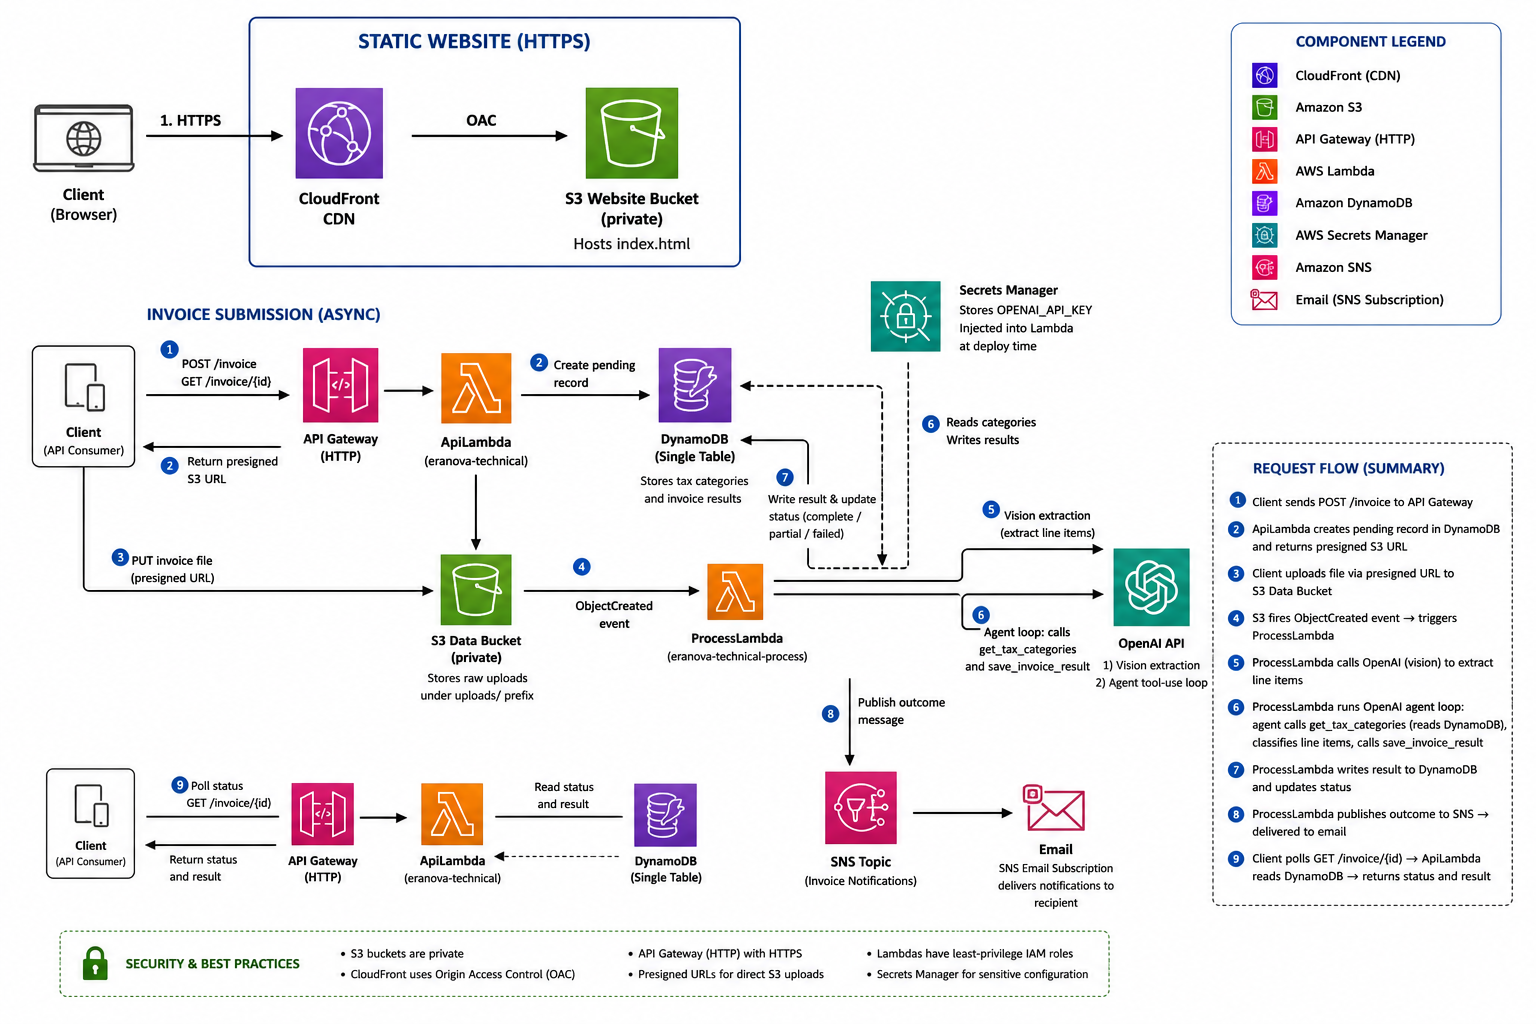
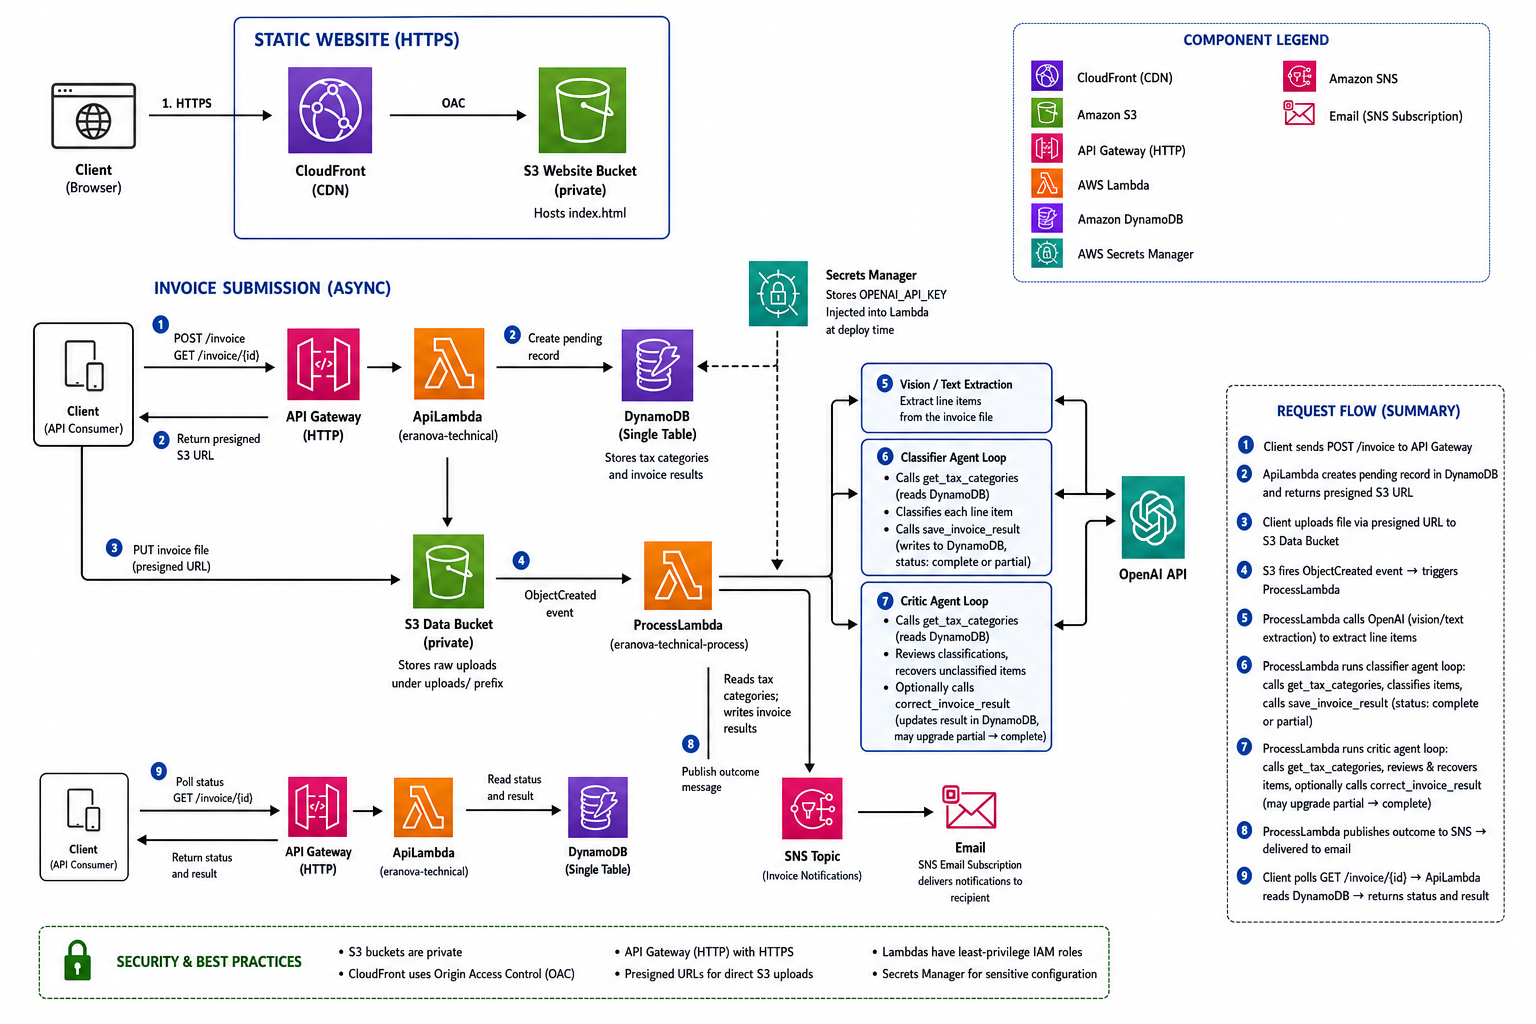
adding logging + updated architecture diagram

diff --git a/src/agent.py b/src/agent.py
@@ -1,6 +1,7 @@
 import base64
 import io
 import json
+import logging
 import os
 from typing import List
 
@@ -17,6 +18,7 @@ from models import (
 )
 from repository import repo, to_float
 
+logger = logging.getLogger(__name__)
 client = OpenAI(api_key=os.environ["OPENAI_API_KEY"])
 
 _EXTRACT_SYSTEM = """
@@ -89,14 +91,29 @@ def _extract(file_bytes: bytes, content_type: str) -> ExtractedInvoice:
             input=[{"role": "user", "content": user_content}],
             text_format=ExtractedInvoice,
         )
-        return response.output_parsed
+        result = response.output_parsed
+        logger.info(
+            "extraction complete vendor=%s items=%d",
+            result.vendor,
+            len(result.line_items),
+        )
+        return result
     finally:
         if file_id:
             client.files.delete(file_id)
 
 
 def run(invoice_id: str, file_bytes: bytes, content_type: str) -> None:
+    logger.info(
+        "invoice_id=%s extraction starting content_type=%s", invoice_id, content_type
+    )
     extracted = _extract(file_bytes, content_type)
+
+    logger.info(
+        "invoice_id=%s classifier starting items=%d",
+        invoice_id,
+        len(extracted.line_items),
+    )
 
     @function_tool
     def save_invoice_result(line_items: List[ClassifiedLineItemInput]) -> SaveResult:
@@ -117,12 +134,17 @@ def run(invoice_id: str, file_bytes: bytes, content_type: str) -> None:
         agent,
         f"Invoice ID: {invoice_id}\n\nExtracted line items:\n{extracted.model_dump_json(indent=2)}",  # noqa: E501
     )
+    logger.info("invoice_id=%s classifier complete", invoice_id)
 
 
 def run_critic(invoice_id: str) -> None:
     result = repo.get_result(invoice_id)
     if not result or not result.get("line_items"):
         return
+
+    logger.info(
+        "invoice_id=%s critic starting items=%d", invoice_id, len(result["line_items"])
+    )
 
     @function_tool
     def correct_invoice_result(corrections: List[CorrectionInput]) -> CorrectionResult:
@@ -141,3 +163,4 @@ def run_critic(invoice_id: str) -> None:
         critic,
         f"Invoice ID: {invoice_id}\n\nClassified line items:\n{line_items_json}",
     )
+    logger.info("invoice_id=%s critic complete", invoice_id)

diff --git a/src/process.py b/src/process.py
@@ -1,9 +1,13 @@
+import logging
 import os
 
 import boto3
 
 import agent
 from repository import repo
+
+logging.basicConfig(level=logging.INFO)
+logger = logging.getLogger(__name__)
 
 SNS_TOPIC_ARN = os.environ.get("SNS_TOPIC_ARN")
 API_BASE_URL = os.environ.get("API_BASE_URL")
@@ -41,11 +45,13 @@ def _notify(
 
     try:
         sns_client.publish(TopicArn=SNS_TOPIC_ARN, Subject=subject, Message=body)
-    except Exception:
-        pass
+        logger.info("invoice_id=%s notification sent status=%s", invoice_id, status)
+    except Exception as exc:
+        logger.warning("invoice_id=%s notification failed: %s", invoice_id, exc)
 
 
 def _fail(invoice_id: str, error: str) -> None:
+    logger.error("invoice_id=%s failed: %s", invoice_id, error)
     repo.set_failed(invoice_id, error)
     _notify(invoice_id, "failed", error=error)
 
@@ -60,12 +66,20 @@ def lambda_handler(event, context):
             raise ValueError(f"unexpected S3 key format: {key!r}")
         invoice_id = parts[1]
 
+        logger.info("invoice_id=%s processing started key=%s", invoice_id, key)
+
         try:
             resp = s3_client.get_object(Bucket=bucket, Key=key)
             file_bytes = resp["Body"].read()
             meta = repo.get_metadata(invoice_id) or {}
             content_type = meta.get("content_type") or resp.get(
                 "ContentType", "application/octet-stream"
+            )
+            logger.info(
+                "invoice_id=%s file loaded content_type=%s size=%d bytes",
+                invoice_id,
+                content_type,
+                len(file_bytes),
             )
         except Exception as exc:
             _fail(invoice_id, f"failed to read uploaded file: {exc}")
@@ -80,7 +94,7 @@ def lambda_handler(event, context):
         try:
             agent.run_critic(invoice_id)
         except Exception as exc:
-            print(f"critic failed for {invoice_id}: {exc}")
+            logger.warning("invoice_id=%s critic failed: %s", invoice_id, exc)
 
         try:
             meta = repo.get_metadata(invoice_id) or {}
@@ -91,5 +105,5 @@ def lambda_handler(event, context):
                 vendor=meta.get("vendor"),
                 result=result,
             )
-        except Exception:
-            pass
+        except Exception as exc:
+            logger.warning("invoice_id=%s post-processing failed: %s", invoice_id, exc)